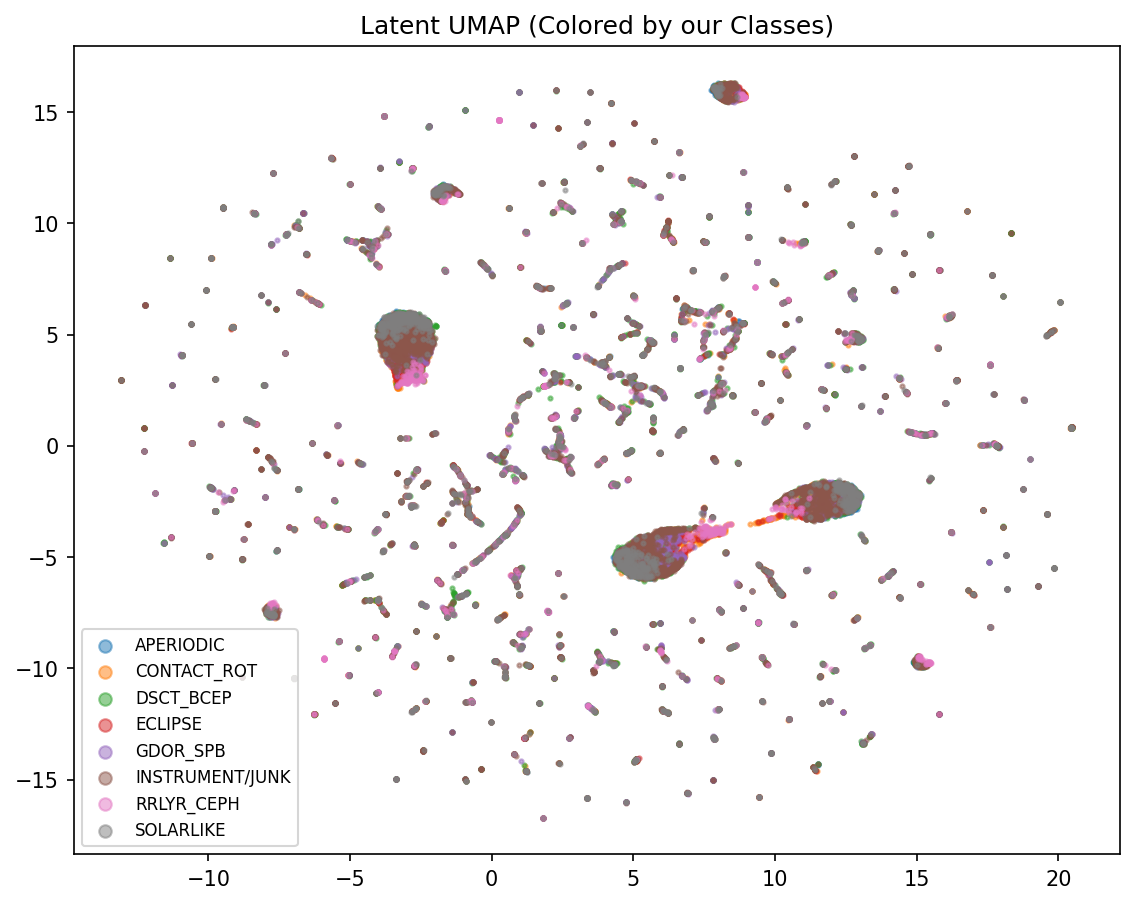
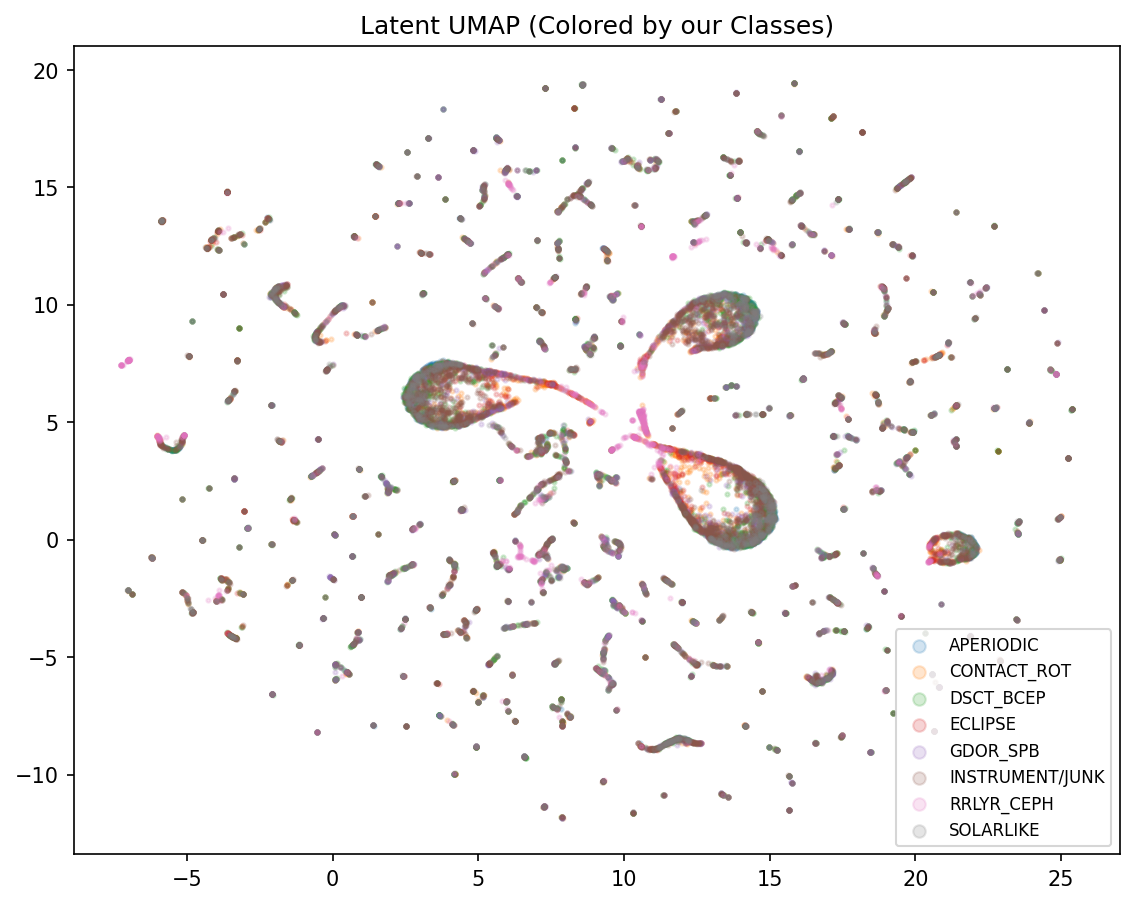
fix S4Classifier arg

diff --git a/src/training/train_s4d.py b/src/training/train_s4d.py
@@ -5,7 +5,7 @@ from sklearn.metrics import balanced_accuracy_score
 import numpy as np
 
 from src.data.data import LightCurveDataset, ClassificationDataset
-from src.models.s4d import S4Model
+from src.models.s4d import S4Model, S4Classifier
 
 BATCH_SIZE = 256
 EPOCHS = 100
@@ -22,7 +22,7 @@ dataloader = DataLoader(dataset, batch_size = BATCH_SIZE, shuffle = True, num_wo
 
 val_dataloader = DataLoader(val_dataset, batch_size = BATCH_SIZE, shuffle = True, num_workers=4)
 
-model = S4Model(d_input = 1, d_output = 8, d_model = 256, n_layers = 4, dropout = 0.2).to(DEVICE)
+model = S4Classifier(d_input = 1, n_classes = 8, d_model = 256, n_layers = 4, dropout = 0.2).to(DEVICE)
 
 optimizer = torch.optim.AdamW(model.parameters(), lr = 0.001)
 scheduler = torch.optim.lr_scheduler.CosineAnnealingLR(optimizer, T_max = EPOCHS)

diff --git a/src/models/s4d.py b/src/models/s4d.py
@@ -206,3 +206,16 @@ class S4Model(nn.Module):
         return tokens
 
         
+class S4Classifier(nn.Module):
+
+    def __init__(self, d_input = 1, d_model = 256, n_layers = 4, dropout = 0.2, n_tokens = 4, token_dim = 16, n_classes = 8):
+        super().__init__()
+        self.backbone = S4Model(d_input =d_input, d_model = d_model, n_layers = n_layers, dropout = dropout, n_tokens = n_tokens, token_dim = token_dim)
+
+        self.head = nn.Linear(n_tokens * token_dim, n_classes)
+    
+    def forward(self, x, mask = None):
+
+        tokens = self.backbone(x, mask)
+        z = tokens.flatten(1)
+        return self.head(z)
